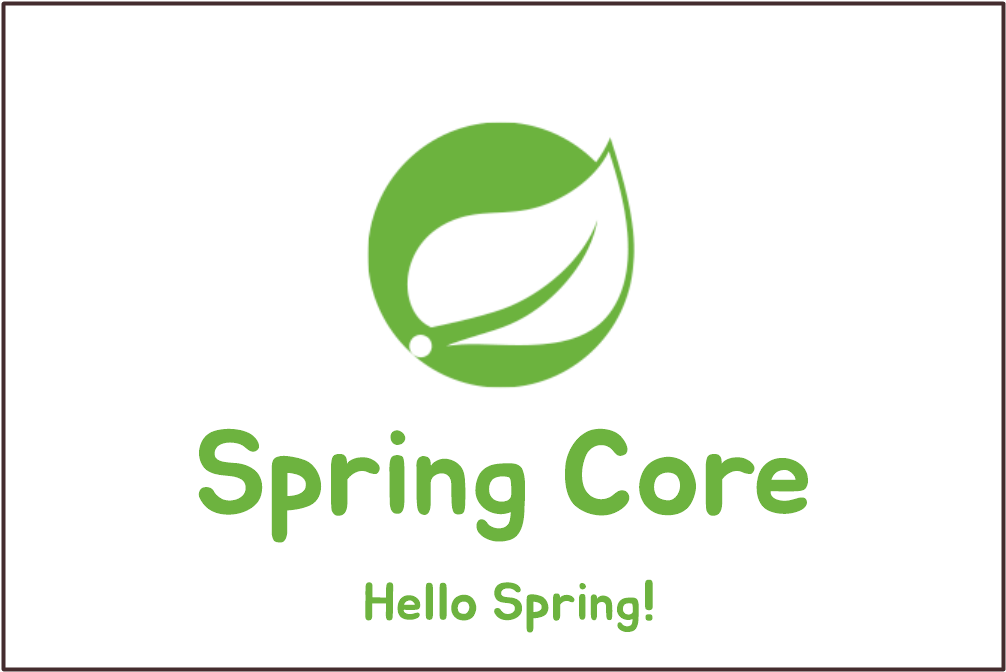
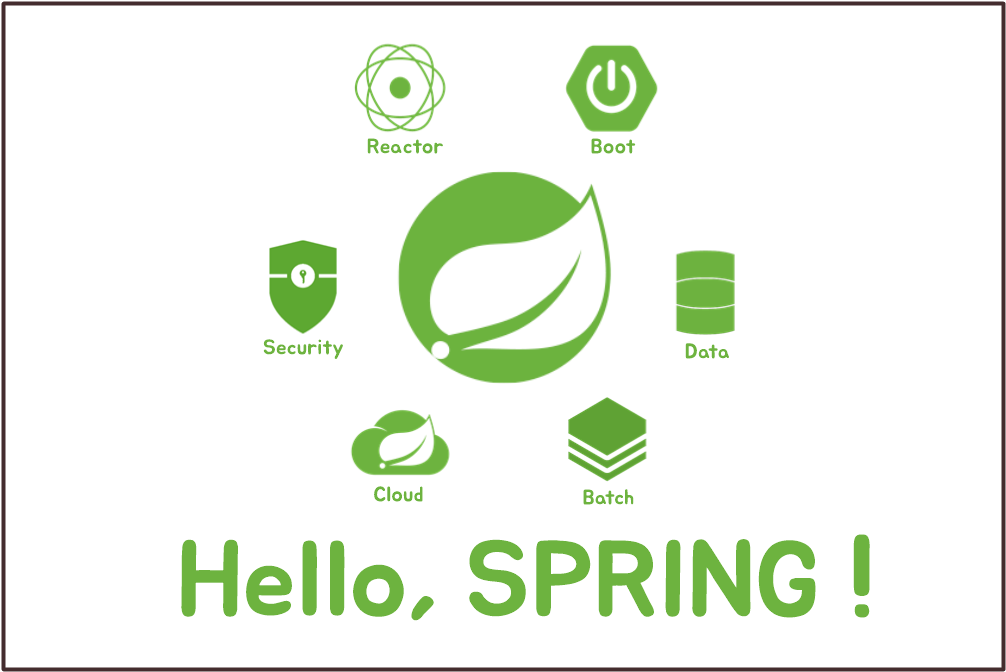
내가 읽은 10가지 Spring 관련 책/강의 리뷰

Changed region(s): [[0.1541, 0.5938, 0.8628, 0.9375], [0.2465, 0.0625, 0.7396, 0.5938]]

diff --git a/_posts/2020-04-06-내가-읽은-10가지-Spring-책-강의-리뷰.md b/_posts/2020-04-06-내가-읽은-10가지-Spring-책-강의-리뷰.md
@@ -1,0 +1,72 @@
+---
+layout: post
+title: "내가 읽은 10가지 Spring 책/강의 리뷰"
+author: cupjoo
+categories: [Spring, 후기]
+image: assets/images/2020-04-06/1.png
+hidden: true
+---
+
+스프링을 공부하면서 느낀 점을 한 마디로 표현하자면, 스프링은 참 쉽지만은 않은 프레임워크다. 개인적으로 웹을 처음 시작한 게 Django여서 유독 그런건지, 단순히 사이트 하나 만드는데 IoC, PSA, AOP부터 시작해서 JPA, 어노테이션, 외부 라이브러리까지 알아야 할 것이 너무나 많다.
+
+물론 이런 학습 부담을 줄이고자 Spring Boot가 나왔지만 파다보면 결국 다시 스프링 자체에 대한 깊은 이해를 필요로 한다. 그러다보니 혼자 공부하기엔 조금 부담스러울 수가 있는데, 나 같은 경우는 근무지에서 스프링 프로젝트를 많이 진행하다 보니 운 좋게 공짜로 여러 종류의 책들을 읽으면서 생기초부터 스프링을 익힐 수 있었다.
+
+그래서 이번 포스트에서는 `내가 스프링을 처음 시작했을 때 이렇게 배웠으면 시간을 더 아낄 수 있었을 것 같다` 라는 주제로 리뷰를 작성하려 한다. 내용이 너무 길다고 느껴지면 추천 로드맵만 확인해도 된다. (리뷰 순서는 그냥 내가 읽은 순서대로 나열했다.)
+
+---
+
+## 1. [스프링 부트와 AWS로 혼자 구현하는 웹 서비스](https://book.naver.com/bookdb/book_detail.nhn?bid=15871738)
+
+**이 이상의 Spring 입문서는 없다.**
+
+Spring Boot를 시작으로, 데이터 처리, 로그인, 배포까지 모든 내용을 가볍고 빠르게 다뤄볼 수 있다. 이후 설명할 토비의 스프링 같은 책도 정말 대단한 책들이지만 입문자가 처음 읽으면 "이게 도대체 뭔 소리야" 라는 생각이 든다. 나도 처음에 가이드라인도 없이 무작정 읽어봤는데 이틀도 안 되서 접어버렸다.
+
+개인적으로 생각하는 최고의 프로그래밍 공부법은 `일단 시작하자. 그리고나서 채워나가자.`이다. 이 책을 읽다보면 이 말이 바로 와닿을 것 같다. 하지만 이 책만 읽고 막상 새 프로젝트를 시작하려 하면 바보가 된 나를 보게 된다. (원리를 알아야 응용을 하지!) 이후에 꼭 개념과 동작 원리에 대한 공부를 따로 하자.
+
+## 2. [시작하세요! 스프링 4 프로그래밍](https://book.naver.com/bookdb/book_detail.nhn?bid=7993325)
+
+**뭔가 애매한 포지션..**
+
+입문서로 하기엔 너무 두껍고, 개념서로 쓰자니 너무 얕다. 뭔가 두 마리의 토끼를 다 잡으려다 다 놓친 기분.. 다 읽지는 않았다. 나중에 다시 읽어보니 꼭 필요한 얘기는 다 다루고 있긴 한데 토비의 스프링만큼 친절하지는 않아서 두고두고 찾게 되지는 않는다.
+
+## 3. [Clean Code](http://www.yes24.com/Cooperate/Naver/welcomeNaver.aspx?pageNo=1&goodsNo=11681152)
+
+**좋은 기준선이지만 다 지키다 보면 노이로제에 걸릴 것 같다.**
+
+스프링은 아니지만 코딩을 하다 한 번쯤 고민해볼 내용이라 추가했다. 평소 나도 집착증이라 할 정도로 코드가 나만의 규칙성을 지키지 않으면 하루 날 잡고 다 뒤짚어 엎어야 속이 시원해지는 버릇이 있다. 그런데 이건 좀 과한데? 이렇게 많은 규칙이 있었나?
+
+물론 특정 부분에서 이거 어떻게 깔끔하게 정리할까 고민이 들면 그때 가서 찾아보는 건 굉장히 도움이 많이 될 것 같다. 하지만 정독하는 건 흠.. [잘가, 클린 코드](https://overreacted.io/ko/goodbye-clean-code/?fbclid=IwAR1OoRQfHG0700ygG-BmviLBcTHA5Jvwl7azTtQm__J5qQelzyWlDlFwpz0) 포스트에 격하게 공감한다. 잘 짜려고 노력하되, 주객전도가 되지 말자.
+
+## 4. [백기선/스프링 프레임워크 핵심 기술](https://www.inflearn.com/course/spring-framework_core)
+
+**핵심을 짚어주는 강의. 근데 어제 들은 내용이 뭐더라..**
+
+토비의 스프링의 초소형 축소판이라 볼 수 있다. 스프링의 핵심인 IoC, AOP, PSA의 변천사부터 주요 개념을 잘 풀어서 설명해준다. 그런데 한 내용에 꽂혀 너무 다른 내용으로 빠질 때가 많다. 개인적으로 잘 맞는 강의법은 아니었다. 그리고 어떤 내용은 어느 정도만 설명하고 자세한 건 다른 강의에서 들으면 된다고 하는 경우가 종종 나온다. 현질 유도가 좀 과하다. 주제 자체는 의심할 여지가 없으니 알아서 판단하면 된다.
+
+## 5. [토비의 스프링 3.1](https://book.naver.com/bookdb/book_detail.nhn?bid=7006516)
+
+**이 책을 안 읽어보고서 스프링을 잘 안다고 말하는게 의미가 있는 건지 모르겠다.**
+
+현존하는 스프링 책 중에 가장 의미있는 책이라 생각한다. 스프링을 어디서 어떻게 입문했는지는 다를 수 있지만, 한 단계 더 높은 레벨에 오르기 위해선 꼭 거쳐야 하는 책이다. 처음엔 **뭐야 스프링 3.1? 완전 옛날 책이네, 두께는 왜 이렇게 두꺼워!** 라며 거들떠도 보지 않았다. 그러다 처음 읽고나서 놀랐던게 다른 블로그에서는 두루뭉술하게 설명됐던 내용들을 너무 명확하게 구분지어 설명해주며, 군더더기도 없이 딱 이해에 필요한 만큼만 설명해준다.
+
+그렇다고 너무 교과서처럼 처음부터 끝까지 순서대로 읽을 필요는 없다. 나 같은 경우엔 컨셉을 잡고 IoC, AOP, PSA에 대한 내용만 선택해서 읽었다. 해당 기술들은 Spring의 3대 핵심 기술들로, 시간이 아무리 지나도 불변하는 내용이다. 절반도 안되는 분량이니 쏙쏙 골라 핵심만 읽고나서 나머지는 시간이 남을 때 다시 읽어보자.
+
+## 6. [김영한/자바 ORM 표준 JPA 프로그래밍 - 기본편](https://www.inflearn.com/course/ORM-JPA-Basic)
+
+**토비의 스프링이 Spring 교과서라면 이 강의는 JPA 교과서다.**
+
+Spring Data JPA를 쓰긴 쓰는데 JPA랑은 다른건가? Hibernate는 또 뭐고 JDBC는 또 뭐야, 비슷한게 뭐 이리 많아! 라는 상황에서 듣게 된 강의다. JPA에 대한 개념 설명으로 그치는 게 아니라 현업에서 이거는 쓴다, 이거는 쓰지마라 라는 기준을 명확히 나눠준다. 다른 강의들과 다르게 듣고 나면 무엇을 배웠는지와 무엇이 더 필요한지를 확실히 알게 해주는 강의다.
+
+[자바 ORM 표준 JPA 프로그래밍](https://book.naver.com/bookdb/book_detail.nhn?bid=9252528) 저자의 강의로, 책을 읽어보지는 않았지만 이 강의가 동일한 내용을 다룬 축소판이라 하니 책이 편한 사람은 책을 보자.
+
+## 7. [김영한/실전! 스프링 부트와 JPA 활용](https://www.inflearn.com/course/스프링부트-JPA-활용-1)
+
+## 8. [김영한/실전! 스프링 데이터 JPA](https://www.inflearn.com/course/스프링-데이터-JPA-실전)
+
+## 9. [TDD 실천법과 도구](https://repo.yona.io/doortts/blog/issue/1)
+
+## 10. [스프링 마이크로서비스 코딩 공작소](https://book.naver.com/bookdb/book_detail.nhn?bid=14371209)
+
+---
+
+## 추천 로드맵

diff --git a/_posts/2020-03-20-Hello-Spring.md b/_posts/2020-03-20-Hello-Spring.md
@@ -4,6 +4,8 @@ title: "Hello, Spring!"
 author: cupjoo
 categories: [Spring]
 image: assets/images/2020-03-20/1.png
+featured: true
+hidden: true
 ---
 
 이 포스트에서는 Spring 입문자를 대상으로 Spring 기초 개념과 용어, Spring에 속하지는 않지만 자주 사용되는 라이브러리 등에 대해 설명한다. 여러 주제를 병렬적으로 정리하다 보니 다소 두서가 없을 수 있으니 필요한 내용만 선택해 보자. 예시 프로젝트 기본 세팅은 다음 환경으로 구성된다.

diff --git a/_posts/2020-01-28-대회기출로-정리하는-알고리즘-로드맵.md b/_posts/2020-01-28-대회기출로-정리하는-알고리즘-로드맵.md
@@ -4,8 +4,6 @@ title: "대회기출로 정리하는 알고리즘 로드맵"
 author: cupjoo
 categories: [알고리즘]
 image: assets/images/2020-01-28/1.png
-featured: true
-hidden: true
 ---
 
 알고리즘을 공부하면서 항상 느꼈던 게, 문제를 푸는 데 있어 기본적으로 알아야 할 문법이나 개념들이 너무 많다는 것이다. 그렇다고 모든 내용을 다 알려고 하자니, 목표에 비해 공부량이 지나치게 과하다.

diff --git a/_posts/2020-03-28-Type-Handling.md b/_posts/2020-03-28-Type-Handling.md
@@ -1,0 +1,9 @@
+---
+layout: post
+title: "Type Handling"
+author: cupjoo
+categories: [Java]
+image: assets/images/2020-03-28/1.png
+hidden: true
+---
+
